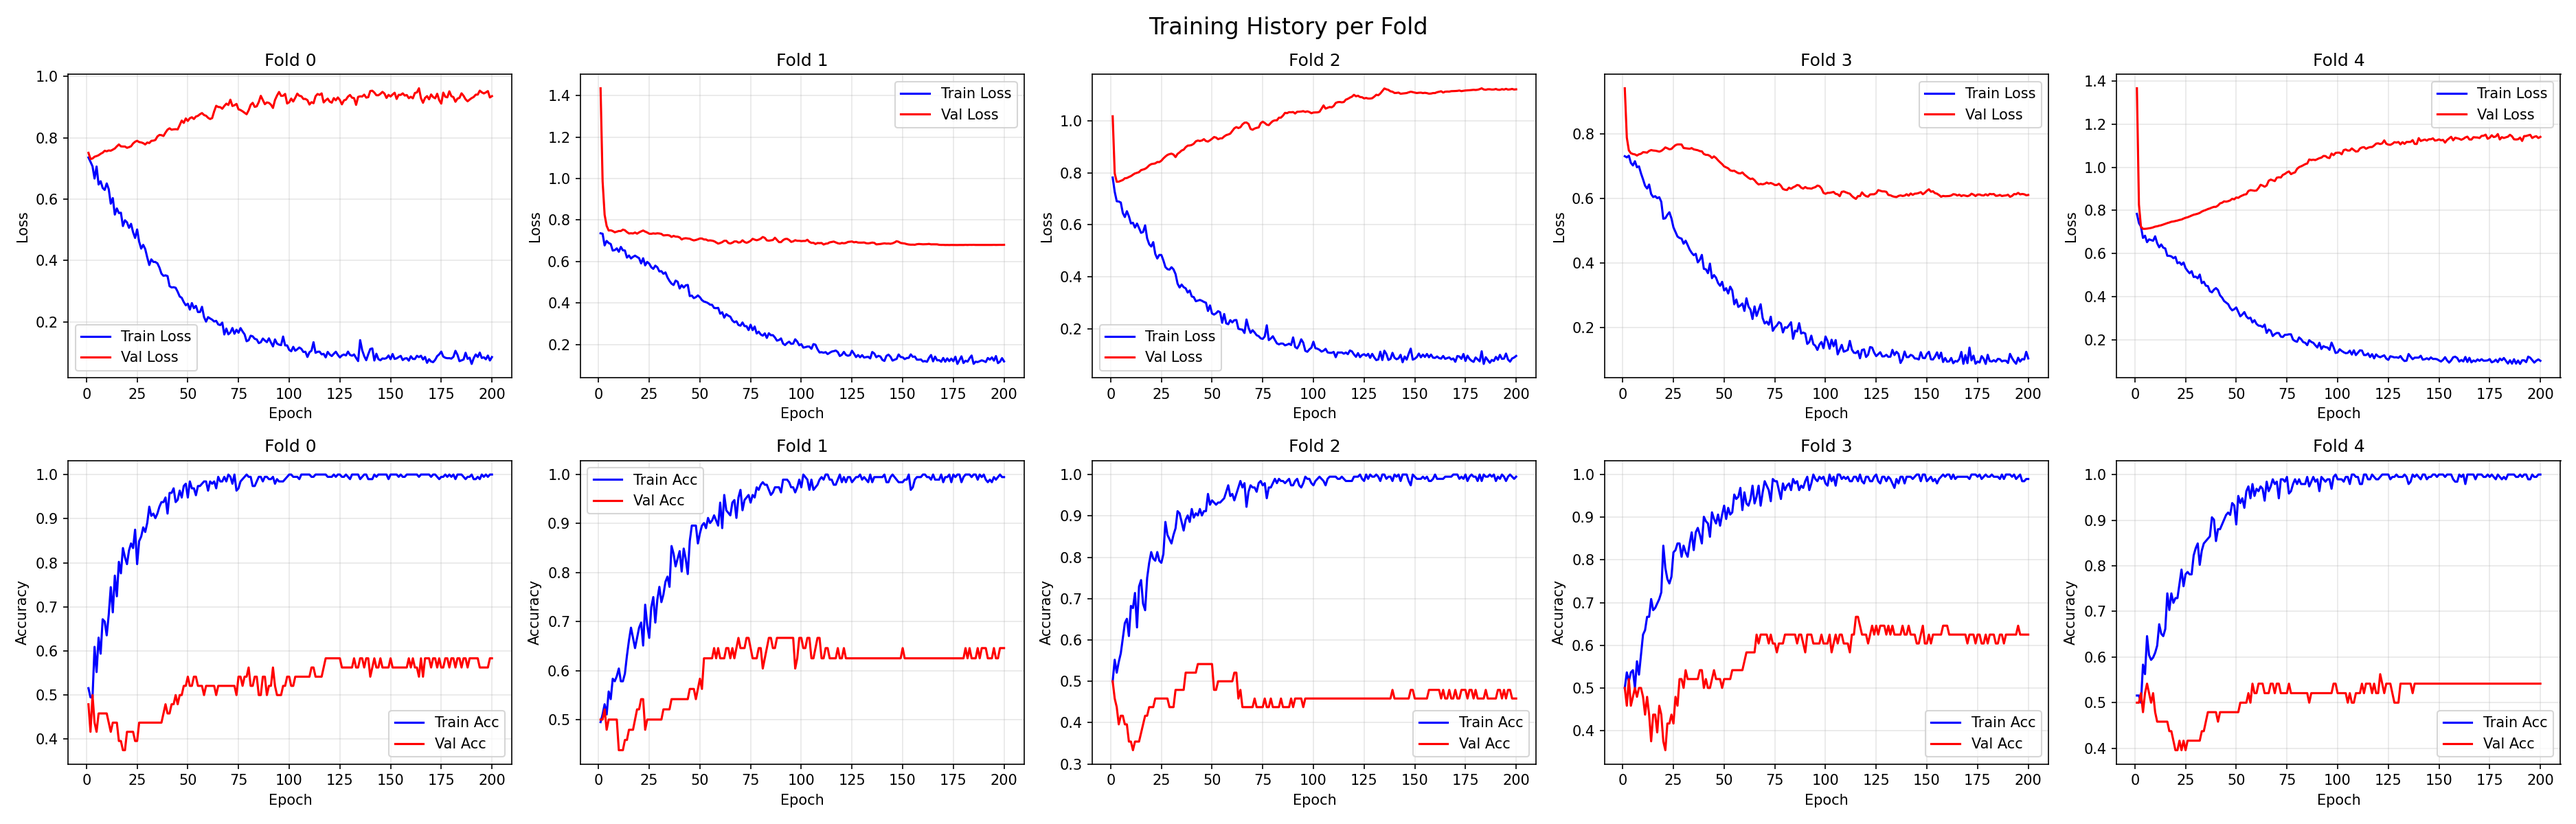
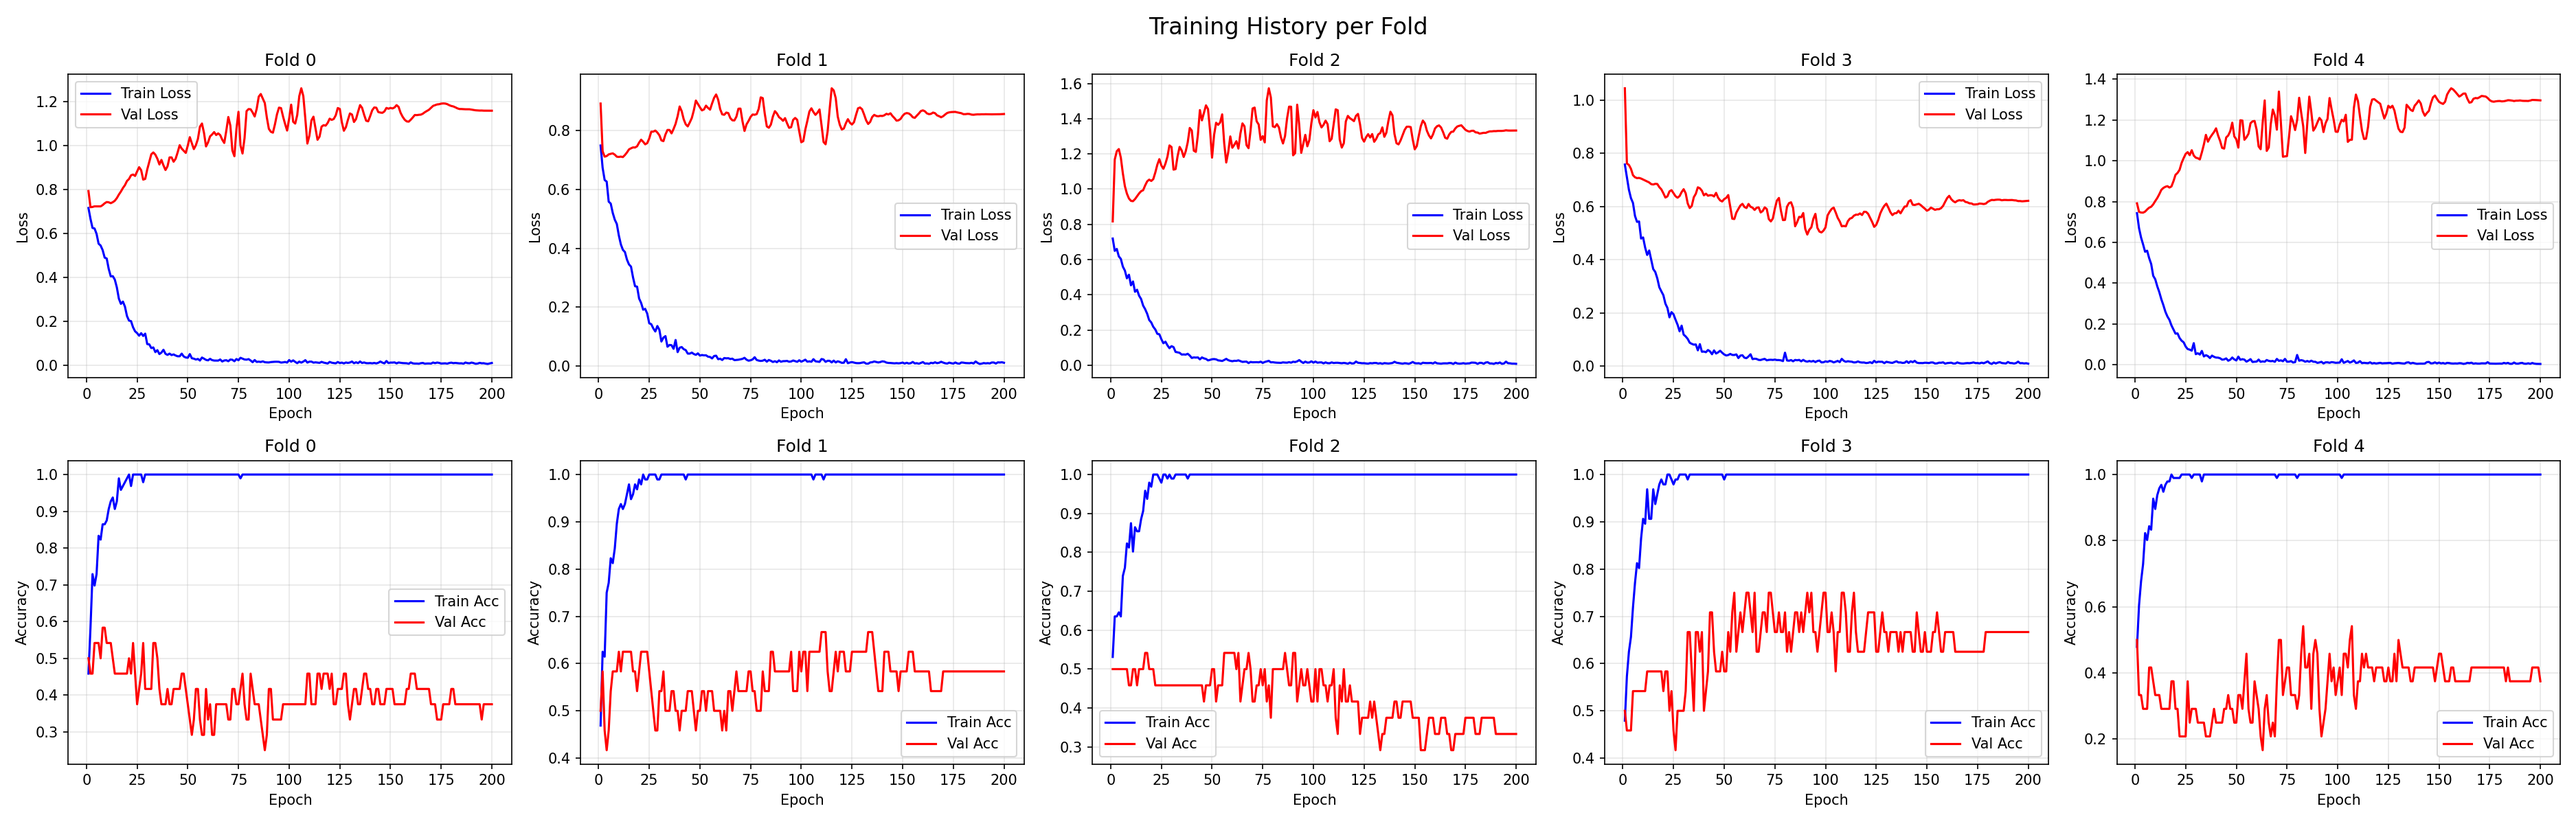
XW4s

diff --git a/test.py b/test.py
@@ -1,93 +1,239 @@
-import mne
-import os
+"""
+从XWStroke数据集中提取运动想象阶段4秒EEG数据
+将每个被试的40个试次中，运动想象阶段的4秒数据提取出来
+输出形状：(40, 32, 2000)  # 40试次 × 32通道 × 2000时间点(4秒×500Hz)
+"""
+
+import scipy.io
 import numpy as np
-import pandas as pd
+import os
+import warnings
+from pathlib import Path
 
-# 1. 定义数据集根路径和被试信息
-dataset_root = "src\\datasets\\27130299\\PEEG"  # 请修改为您的实际路径
-subject_id = '01'  # 要读取的被试ID，例如 '01'
-paradigm = 'pre'   # 实验范式，可选: 'Pre', 'IES', 'SES', 'Post', 'Follow'
-run_num = '1'      # 运行编号，通常为 '1'
-
-# 2. 根据命名规则构建文件路径
-# 以读取预处理数据为例
-file_name = f'sub-{subject_id}_{paradigm}_run-{run_num}_eeg.set'
-file_path = os.path.join(dataset_root, f'sub-{subject_id}',"ses-1","eeg", file_name)
-
-# 3. 检查文件是否存在
-if not os.path.exists(file_path):
-    # 如果预处理数据路径不存在，尝试在 derivatives 或 sourcedata 下寻找
-    alt_paths = [
-        os.path.join(dataset_root, 'derivatives', f'sub-{subject_id}', file_name),
-        os.path.join(dataset_root, 'sourcedata', f'sub-{subject_id}', file_name.replace('_eeg.set', '_ori.set')), # 原始数据
-        os.path.join(dataset_root, f'sub-{subject_id}', file_name.replace('_eeg.set', '_ori.set')) # 原始数据另一种可能位置
-    ]
-    for path in alt_paths:
-        if os.path.exists(path):
-            file_path = path
-            print(f"在备用路径找到文件: {file_path}")
-            break
-    else:
-        raise FileNotFoundError(f"未在以下路径找到数据文件: {file_path} 及其备用路径")
-
-# 4. 使用MNE读取 .set 文件
-# 注意：MNE可能需要读取同名的 .fdt 文件，请确保它与 .set 文件在同一目录
-raw = mne.io.read_raw_eeglab(file_path, preload=True)
-# 如果读取原始连续数据，可以使用上面的方法。
-# 如果数据已经是分好段的（单个trial），可能会被读为epochs。但根据文档描述，预处理数据是分段的，但存储为连续形式+事件标记。
-# 我们可以根据事件标记将数据分割成epochs。
-
-# 5. 获取信息
-print("="*50)
-print(f"文件: {os.path.basename(file_path)}")
-print(f"采样频率: {raw.info['sfreq']} Hz")
-print(f"通道名称: {raw.info['ch_names'][:5]}...")  # 打印前5个通道名
-print(f"数据形状 (通道数 x 时间点数): {raw.get_data().shape}")
-print(f"事件数量: {len(raw.annotations) if raw.annotations is not None else 'N/A'}")
-print("="*50)
-
-# 6. 提取事件和epochs（如果数据是带有事件标记的连续记录）
-# 文档中提到数据由事件标签（1-12）标记不同阶段（准备、提示、MI/空闲等）。
-if raw.annotations is not None:
-    events, event_id = mne.events_from_annotations(raw)
-    print(f"找到 {len(events)} 个事件")
-    print(f"事件ID与描述: {event_id}")
+def extract_motor_imagery_4s(input_file, output_file=None, event_marker=1, fs=500):
+    """
+    从单个被试的MAT文件中提取运动想象阶段的4秒EEG数据
     
-    # 例如，如果我们想提取所有“运动想象（MI）任务”阶段的数据（根据文档，标签可能为3,4,5,6）
-    # 注意：实际的事件ID（整数）与描述（字符串）的映射需要查看数据或文档确定。
-    # 这里仅为示例，您需要根据实际 event_id 字典调整 tmin, tmax 和 event_id 的选择。
-    # 假设 '3' 对应 MI 阶段开始
-    if '3' in event_id:
-        epochs = mne.Epochs(raw, events, event_id={'MI_phase': event_id['3']}, 
-                            tmin=0, tmax=5, baseline=None, preload=True) # 示例：提取5秒
-        print(f"Epochs 数据形状: {epochs.get_data().shape}") # (epochs数, 通道数, 时间点数)
-else:
-    # 如果数据已经是分段的，可能没有annotations，而是每个文件就是一个trial/epoch。
-    # 这种情况下，raw.get_data() 就是该trial的数据。
-    data = raw.get_data()
-    print(f"直接获取数据形状: {data.shape}")
-    # 通常，一个 .set 文件可能包含多个trials，具体结构需参考数据集说明。
-    # 根据文档，预处理数据是分好段的，'EEG.data' 是 (40, 50000)。
-    # 这意味着每个文件可能是一个长段数据（可能包含多个trials），需要根据EEG.event分割。
-    # 但由于我们通过MNE读取，EEG.event信息被转换成了raw.annotations。
+    参数:
+    ----------
+    input_file : str
+        输入的MAT文件路径
+    output_file : str, 可选
+        输出文件路径，如为None则自动生成
+    event_marker : int, 默认=1
+        事件标记通道中标识"运动想象开始"的标记值
+    fs : int, 默认=500
+        采样率(Hz)
+    
+    返回:
+    ----------
+    extracted_data : numpy.ndarray
+        提取的EEG数据，形状为(n_trials, 32, 2000)
+    labels : numpy.ndarray
+        试次标签，形状为(n_trials,)
+    """
+    
+    # 1. 加载MAT文件
+    try:
+        data = scipy.io.loadmat(input_file)
+        # 找到包含EEG数据的变量
+        for key, value in data.items():
+            if not key.startswith('__'):
+                eeg_data = value[0][0][0]  # 形状应为: (n_sessions, n_channels, n_timepoints)
+                labels = value[0][0][1]    # 形状应为: (n_sessions, 1)
+                break
+    except Exception as e:
+        raise FileNotFoundError(f"无法加载文件 {input_file}: {e}")
+    
+    # 2. 检查数据形状
+    n_trials, n_channels, n_timepoints = eeg_data.shape
+    print(f"原始数据形状: {eeg_data.shape}")
+    print(f"标签形状: {labels.shape}")
+    
+    # 确保是40个试次
+    if n_trials != 40:
+        warnings.warn(f"试次数不是40，而是{n_trials}，但将继续处理")
+    
+    # 确保是33个通道（32个EEG + 1个事件标记）
+    if n_channels != 33:
+        raise ValueError(f"期望33个通道(32EEG+1事件标记)，但实际有{n_channels}个通道")
+    
+    # 3. 提取4秒运动想象数据
+    extracted_trials = []
+    valid_trials = 0
+    
+    # 计算4秒对应的时间点数
+    duration_4s = 4 * fs  # 4秒 × 500Hz = 2000个点
+    
+    for trial_idx in range(n_trials):
+        # 获取当前试次的所有通道数据
+        trial_data = eeg_data[trial_idx, :, :]  # 形状: (33, n_timepoints)
+        
+        # 分离EEG通道和事件标记通道
+        eeg_channels = trial_data[:32, :]      # 前32个是EEG通道
+        event_channel = trial_data[32, :]     # 第33个是事件标记通道
+        
+        # 在事件标记通道中寻找运动想象开始的标记
+        # 找到事件标记值等于event_marker的位置
+        event_indices = np.where(event_channel == event_marker)[0]
+        
+        if len(event_indices) == 0:
+            # 如果没找到指定的标记值，尝试寻找第一个非零值
+            event_indices = np.where(event_channel != 0)[0]
+            if len(event_indices) > 0:
+                warnings.warn(f"试次{trial_idx+1}: 未找到标记值{event_marker}，使用第一个非零事件标记")
+            else:
+                # 如果仍然找不到，使用默认值（假设从2秒后开始，即1000个点）
+                warnings.warn(f"试次{trial_idx+1}: 未找到事件标记，使用默认起始点1000")
+                event_indices = [1000]
+        
+        # 取第一个事件标记作为运动想象开始
+        start_idx = event_indices[0]
+        
+        # 检查索引范围是否有效
+        if start_idx + duration_4s > n_timepoints:
+            warnings.warn(f"试次{trial_idx+1}: 起始索引{start_idx}加上4秒超出数据范围，跳过此试次")
+            continue
+        
+        # 提取4秒的EEG数据（去除事件标记通道）
+        extracted_eeg = eeg_channels[:, start_idx:start_idx + duration_4s]
+        
+        # 验证提取的形状
+        if extracted_eeg.shape != (32, duration_4s):
+            warnings.warn(f"试次{trial_idx+1}: 提取的数据形状为{extracted_eeg.shape}，期望(32, {duration_4s})")
+            continue
+        
+        extracted_trials.append(extracted_eeg)
+        valid_trials += 1
+    
+    # 4. 转换为numpy数组
+    if len(extracted_trials) == 0:
+        raise ValueError("未成功提取任何试次数据，请检查事件标记值或数据")
+    
+    extracted_data = np.array(extracted_trials)  # 形状: (n_valid_trials, 32, 2000)
+    
+    print(f"成功提取 {valid_trials}/{n_trials} 个试次")
+    print(f"提取后数据形状: {extracted_data.shape}")
+    
+    # 5. 保存为MAT文件
+    if output_file is None:
+        # 自动生成输出文件名
+        input_path = Path(input_file)
+        output_file = input_path.parent / f"{input_path.stem}_4s{input_path.suffix}"
+    
+    # 创建输出字典
+    output_dict = {
+        'eeg_data_4s': extracted_data,  # 提取的4秒运动想象EEG
+        'labels': labels.flatten(),      # 原始标签
+        'fs': fs,                        # 采样率
+        'duration': 4.0,                 # 持续时间(秒)
+        'n_channels': 32,                # 通道数
+        'event_marker_used': event_marker,  # 使用的事件标记值
+        'source_file': input_file        # 源文件
+    }
+    
+    # 保存MAT文件
+    scipy.io.savemat(output_file, output_dict)
+    print(f"数据已保存到: {output_file}")
+    
+    return extracted_data, labels.flatten()
 
-# 7. 访问被试元数据（可选）
-# participants.tsv 文件包含了所有被试的临床和人口统计学信息（如表2）
-participants_tsv_path = os.path.join(dataset_root, 'participants.tsv')
-if os.path.exists(participants_tsv_path):
-    df_participants = pd.read_csv(participants_tsv_path, sep='\t')
-    subject_info = df_participants[df_participants['participant_id'] == f'sub-{subject_id}']
-    print("\n被试信息:")
-    print(subject_info.to_string(index=False))
-else:
-    print(f"\n未在根目录找到 participants.tsv 文件。")
+def batch_process_all_subjects(data_dir, subject_ids=None, event_marker=1):
+    """
+    批量处理所有被试的数据
+    
+    参数:
+    ----------
+    data_dir : str
+        数据目录的根路径
+    subject_ids : list, 可选
+        被试ID列表，如为None则自动查找
+    event_marker : int, 默认=1
+        事件标记值
+    """
+    
+    data_dir = Path(data_dir)
+    
+    # 如果未指定被试ID，自动查找
+    if subject_ids is None:
+        # 查找所有被试文件夹
+        subject_folders = [f for f in data_dir.iterdir() if f.is_dir() and f.name.startswith('sub-')]
+        subject_ids = []
+        for folder in subject_folders:
+            try:
+                # 从文件夹名提取ID，如"sub-01" -> 1
+                sub_id = int(folder.name.split('-')[1])
+                subject_ids.append(sub_id)
+            except:
+                continue
+        subject_ids.sort()
+    
+    print(f"找到 {len(subject_ids)} 个被试: {subject_ids}")
+    
+    # 处理每个被试
+    all_results = {}
+    
+    for sub_id in subject_ids:
+        print(f"\n{'='*50}")
+        print(f"处理被试 sub-{sub_id:02d}")
+        print('='*50)
+        
+        try:
+            # 构建输入文件路径
+            sub_folder = data_dir / f"sub-{sub_id:02d}"
+            input_file = sub_folder / f"sub-{sub_id:02d}_task-motor-imagery_eeg.mat"
+            
+            if not input_file.exists():
+                print(f"警告: 文件不存在 {input_file}，跳过")
+                continue
+            
+            # 处理单个被试
+            extracted_data, labels = extract_motor_imagery_4s(
+                input_file=str(input_file),
+                event_marker=event_marker
+            )
+            
+            all_results[sub_id] = {
+                'data': extracted_data,
+                'labels': labels,
+                'status': 'success'
+            }
+            
+        except Exception as e:
+            print(f"处理被试 sub-{sub_id:02d} 时出错: {e}")
+            all_results[sub_id] = {
+                'data': None,
+                'labels': None,
+                'status': f'error: {str(e)}'
+            }
+    
+    # 打印汇总信息
+    print(f"\n{'='*50}")
+    print("处理完成汇总:")
+    print('='*50)
+    
+    success_count = sum(1 for res in all_results.values() if res['status'] == 'success')
+    print(f"成功处理: {success_count}/{len(subject_ids)} 个被试")
+    
+    return all_results
 
-# 8. 数据访问示例
-# 获取第一个通道的前1000个时间点数据（如果需要）
-if raw.__class__.__name__ != 'Epochs':
-    data_array = raw.get_data()
-    # 假设我们想查看通道Cz（可能在索引'Cz'处）的数据片段
-    if 'Cz' in raw.ch_names:
-        cz_index = raw.ch_names.index('Cz')
-        cz_data_snippet = data_array[cz_index, :1000]  # 前1000个样本
-        print(f"\n通道 Cz 前1000个时间点的数据形状: {cz_data_snippet.shape}")
+if __name__ == "__main__":
+    # 使用示例
+    DATA_DIR = "src/datasets/21679035/sourcedata"  # 修改为您的数据目录路径
+    
+    # 方法1: 处理单个被试
+    # input_file = "/path/to/sub-01/sub-01_task-motor-imagery_eeg.mat"
+    # extracted_data, labels = extract_motor_imagery_4s(input_file, event_marker=1)
+    
+    # 方法2: 批量处理所有被试
+    # 指定要处理的被试ID列表
+    subject_ids_to_process = list(range(1,51))
+    
+    # 或者设置为None自动查找所有被试
+    # subject_ids_to_process = None
+    
+    results = batch_process_all_subjects(
+        data_dir=DATA_DIR,
+        subject_ids=subject_ids_to_process,
+        event_marker=1  # 事件标记值，根据实际数据调整
+    )

diff --git a/dataloader/_dataset_XWStroke.py b/dataloader/_dataset_XWStroke.py
@@ -7,11 +7,15 @@ class XWStrokeDataset(BaseDataset):
         """Loads raw EEG data and labels from a .mat file."""
         try:
             data = scipy.io.loadmat(file_path)
-            for key, value in data.items():
-                if not key.startswith('__'):
-                    eeg_data = value[0][0][0]  # Expected shape: (n_sessions, n_channels, n_timepoints)
-                    labels = value[0][0][1]    # Expected shape: (n_sessions, 1)
-                    break
+
+            # for key, value in data.items():
+            #     if not key.startswith('__'):
+            #         eeg_data = value[0]  # Expected shape: (n_sessions, n_channels, n_timepoints)
+            #         labels = value[1]    # Expected shape: (n_sessions, 1)
+            #         break
+
+            eeg_data = data['eeg_data_4s']
+            labels = data['labels']
             return eeg_data, labels.reshape(-1)  # Flatten labels to (n_sessions,)
         except FileNotFoundError:
             raise FileNotFoundError(f"Data file not found: {file_path}")
@@ -20,11 +24,12 @@ class XWStrokeDataset(BaseDataset):
 
     def _load_raw_data(self):
         """Constructs the file path for the subject's data based on the dataset info."""
-        file_name = f"sub-{self.subject_id:02d}_task-motor-imagery_eeg.mat"
+        file_name = f"sub-{self.subject_id:02d}_task-motor-imagery_eeg_4s.mat"
         file_path = os.path.join(self.data_dir, f"sub-{self.subject_id:02d}", file_name)
         data, labels = self._load_mat_data(file_path)
         # print("Raw data shape:", data.shape)
         normalized_data = []
+        # print(data.shape)
         for sess_data in data:
             sess_data = self._exponential_moving_standardize(sess_data, init_block_size=self.sample_rate)
             normalized_data.append(sess_data)
